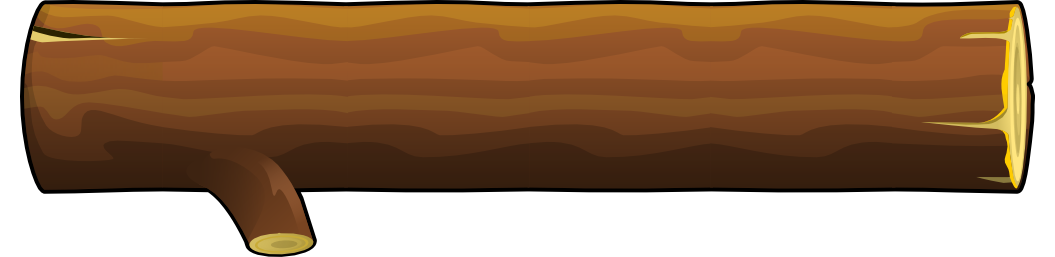
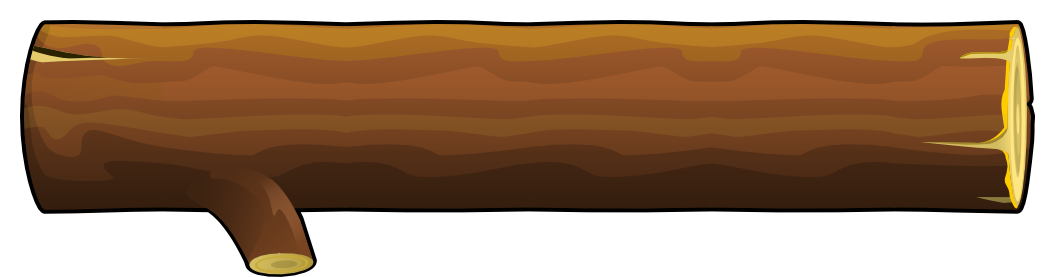
log height + switch image

diff --git a/MyWorld.java b/MyWorld.java
@@ -20,11 +20,11 @@ public class MyWorld extends World {
 
         //adding platforms
         Log floor1 = new Log("med");
-        addObject(floor1, 150, 515);
+        addObject(floor1, 150, 505);
         Log floor2 = new Log("short");
-        addObject(floor2, 420, 515);
+        addObject(floor2, 420, 505);
         Log floor3 = new Log("short");
-        addObject(floor3, 570, 515);
+        addObject(floor3, 570, 505);
         Log floor4 = new Log("stump");
         addObject(floor4, 640, 500);
         
